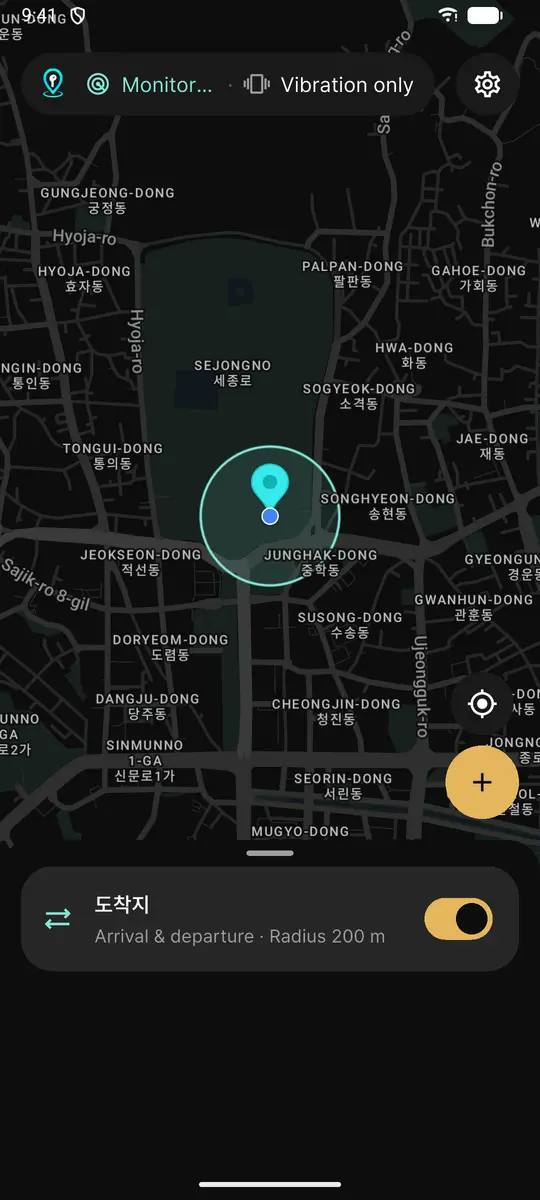
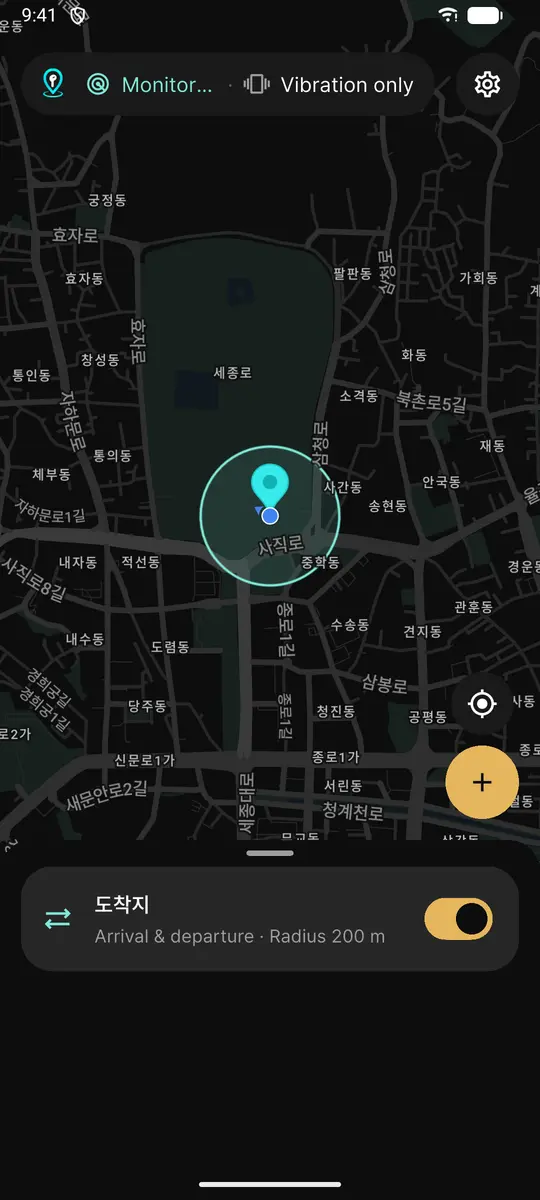
README 를 영어 기본, 4개 언어로 제공한다 : docs : 최신 앱으로 스크린샷을 다시 찍고 알림 화면을 더한다 https://github.com/Cassiiopeia/EarLocAlert/issues/185

diff --git a/README.ja.md b/README.ja.md
@@ -11,9 +11,11 @@
 目的地に着いたとき、またはある場所を離れたとき、周りの人の迷惑にならずに、確実にお知らせします。
 
 <p align="center">
-  <img src="docs/images/home-en.webp" alt="マップのホーム画面: 登録した場所と監視状態 (英語表示)" width="260">
-  &nbsp;&nbsp;
-  <img src="docs/images/add-place-en.webp" alt="場所の登録: イヤホン接続時のみ音が鳴る (英語表示)" width="260">
+  <img src="docs/images/home-en.webp" alt="マップのホーム画面: 登録した場所と監視状態 (英語表示)" width="220">
+  &nbsp;
+  <img src="docs/images/add-place-en.webp" alt="場所の登録: イヤホン接続時のみ音が鳴る (英語表示)" width="220">
+  &nbsp;
+  <img src="docs/images/alert-en.webp" alt="到着の通知: 大きなボタン1つで解除 (英語表示)" width="220">
 </p>
 
 ---

diff --git a/README.zh-CN.md b/README.zh-CN.md
@@ -11,9 +11,11 @@
 到达目的地或离开某个地点时，不打扰身边的人，也能确保你收到提醒。
 
 <p align="center">
-  <img src="docs/images/home-en.webp" alt="地图主页: 已保存的地点和监控状态 (英文界面)" width="260">
-  &nbsp;&nbsp;
-  <img src="docs/images/add-place-en.webp" alt="添加地点: 仅在连接耳机时发出声音 (英文界面)" width="260">
+  <img src="docs/images/home-en.webp" alt="地图主页: 已保存的地点和监控状态 (英文界面)" width="220">
+  &nbsp;
+  <img src="docs/images/add-place-en.webp" alt="添加地点: 仅在连接耳机时发出声音 (英文界面)" width="220">
+  &nbsp;
+  <img src="docs/images/alert-en.webp" alt="到达提醒: 一个大按钮即可关闭 (英文界面)" width="220">
 </p>
 
 ---

diff --git a/README.md b/README.md
@@ -15,9 +15,11 @@
 When you reach a destination or leave a place, it lets you know without disturbing the people around you.
 
 <p align="center">
-  <img src="docs/images/home-en.webp" alt="Map home: saved places and monitoring status" width="260">
-  &nbsp;&nbsp;
-  <img src="docs/images/add-place-en.webp" alt="Add place: sound only when earphones are connected" width="260">
+  <img src="docs/images/home-en.webp" alt="Map home: saved places and monitoring status" width="220">
+  &nbsp;
+  <img src="docs/images/add-place-en.webp" alt="Add place: sound only when earphones are connected" width="220">
+  &nbsp;
+  <img src="docs/images/alert-en.webp" alt="Arrival alert: dismiss with one big button" width="220">
 </p>
 
 ---

diff --git a/README.ko.md b/README.ko.md
@@ -12,9 +12,11 @@
 
 
 <p align="center">
-  <img src="docs/images/home-ko.webp" alt="지도 홈: 등록한 장소와 감시 상태" width="260">
-  &nbsp;&nbsp;
-  <img src="docs/images/add-place-ko.webp" alt="장소 등록: 이어폰이 연결된 경우에만 소리가 납니다" width="260">
+  <img src="docs/images/home-ko.webp" alt="지도 홈: 등록한 장소와 감시 상태" width="220">
+  &nbsp;
+  <img src="docs/images/add-place-ko.webp" alt="장소 등록: 이어폰이 연결된 경우에만 소리가 납니다" width="220">
+  &nbsp;
+  <img src="docs/images/alert-ko.webp" alt="도착 알림: 큰 버튼 하나로 끕니다" width="220">
 </p>
 
 ---
